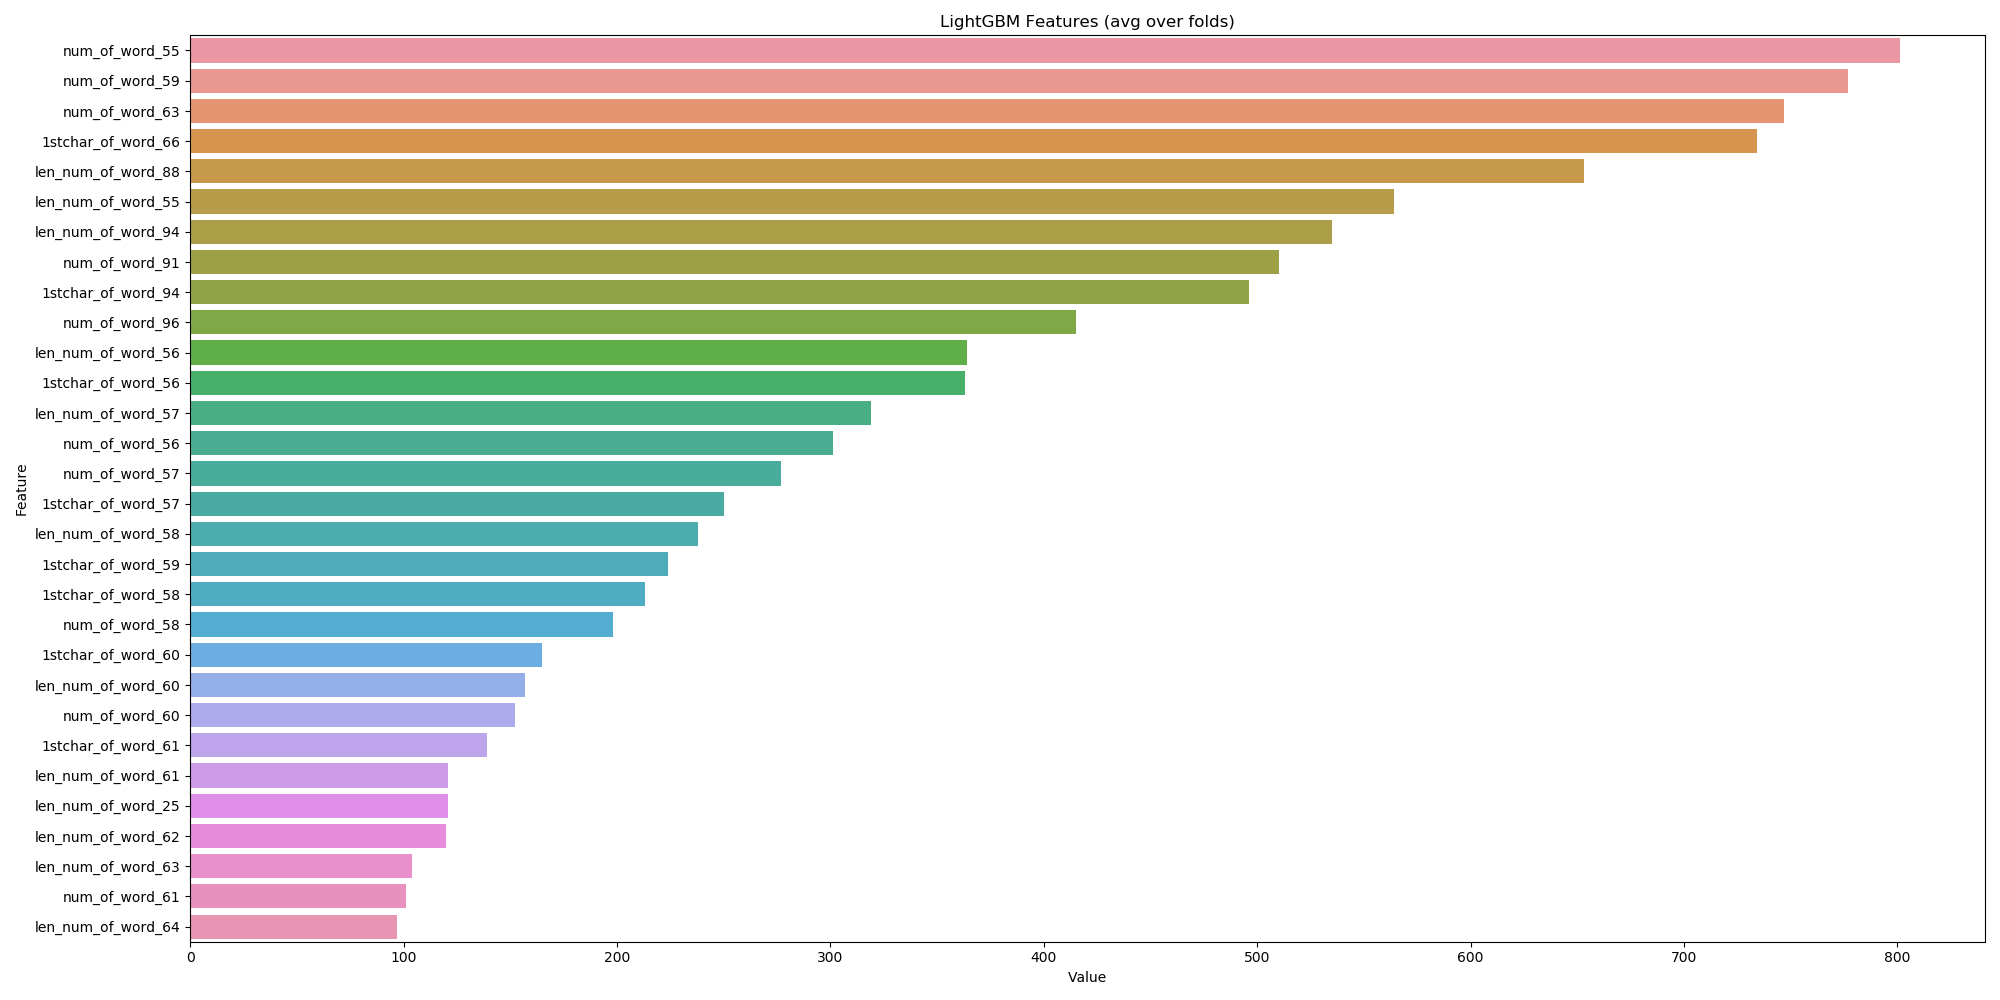
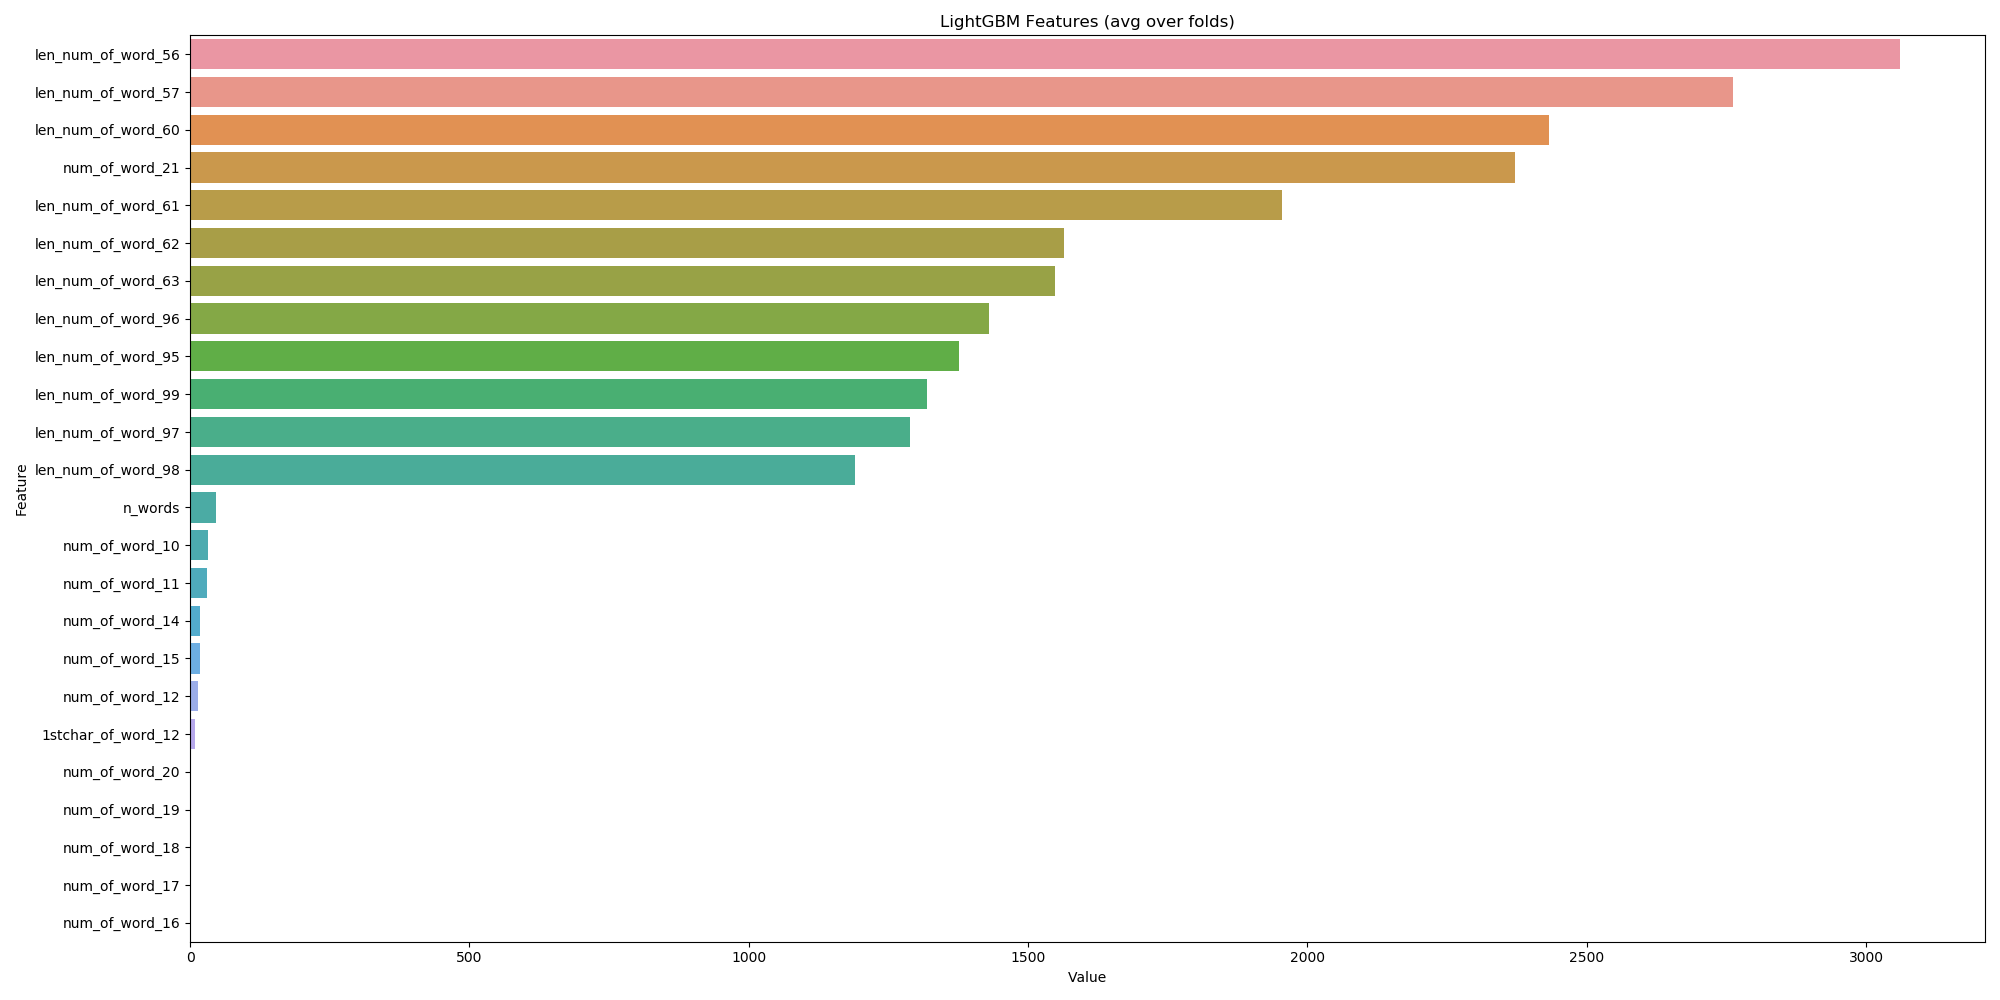
adv f 250

Changed region(s): [[0.0, 0.031, 0.961, 0.961], [0.93, 0.93, 0.961, 0.961], [0.496, 0.93, 0.527, 0.961]]

diff --git a/bin/adversarial_validation.py b/bin/adversarial_validation.py
@@ -35,10 +35,11 @@ test = test.iloc[s_idx[:train.shape[0]]]
 
 # del top features
 adv_imp=pd.read_csv("./adv/feature_imp.csv")
-del_list=list(adv_imp['Feature'].values[:80])
+del_list=list(adv_imp['Feature'].values[:280])
 train=train.drop(del_list,axis=1)
 test=test.drop(del_list,axis=1)
 
+print("**************use col num*******************: ",train.shape[1])
 #del_list=[]
 #del_list=adversarial_del_list(420)
 #train.drop(del_list, inplace=True, axis=1)
